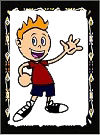
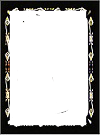
code review

Changed region(s): [[0.12, 0.0889, 0.84, 0.9185], [0.06, 0.2667, 0.12, 0.3852]]

diff --git a/src/view/MyPanel.java b/src/view/MyPanel.java
@@ -44,12 +44,12 @@ public class MyPanel extends JPanel {
                   (int)(CardView.getCardSize()*2.5) + 45, CardView.getCardSize()+panel_size/10 + 120);
 
         }
-        public void drawTotem(Graphics g) throws IOException{
+        public void drawTotem(Graphics g) throws IOException {
             //clearD(g);
             if (mesOk == 1){
-               g.clearRect(0, panel_size/30 , 800, 30);
-                Font font = new Font("Arial", Font.BOLD, 15);
-                Font oldFont = g.getFont();
+               //g.clearRect(0, panel_size/30 , 800, 30);
+				Font font = new Font("Arial", Font.BOLD, 15);
+				Font oldFont = g.getFont();
                g.setColor(Color.red);
                g.setFont(font);
                message += xMes;
@@ -59,7 +59,8 @@ public class MyPanel extends JPanel {
                g.setColor(Color.BLACK);
             } 
             else{
-                g.clearRect(0, panel_size/30 , 800, 30);
+              //  g.clearRect(0, panel_size/30 , 800, 30);
+            	message = "";
             }
             String cardsCount = String.valueOf(totem.getCardsCount());
           // g.drawChars(cardsCount.toCharArray(), 0, cardsCount.length(), xCoord-graphics.CardView.getCardSize()/2+panel_size/60, yCoord+graphics.CardView.getCardSize()/2+panel_size/30);
@@ -181,17 +182,21 @@ public class MyPanel extends JPanel {
         try {
             Image imgU = Configuration.getGallery().getImage("data/arrow_u.png");
             Image imgD = Configuration.getGallery().getImage("data/arrow_d.png");
+            
+            int playerX = myGame.getPlayer(myGame.getPlayerWhoWillGo()).getXCoordinate();
+            int playerY = myGame.getPlayer(myGame.getPlayerWhoWillGo()).getYCoordinate();
+            
             if(plWhoGo%4 == 1){
-                g.drawImage(imgU, myGame.getPlayer(myGame.getPlayerWhoWillGo()).getXCoordinate() -60, myGame.getPlayer(myGame.getPlayerWhoWillGo()).getYCoordinate()+150, 100, 250, null);
+                g.drawImage(imgU, playerX - 60, playerY + 150, 100, 250, null);
             }
             if(plWhoGo%4 == 2){
-                g.drawImage(imgU, myGame.getPlayer(myGame.getPlayerWhoWillGo()).getXCoordinate() + 150, myGame.getPlayer(myGame.getPlayerWhoWillGo()).getYCoordinate(), 100, 250, null);
+                g.drawImage(imgU, playerX + 150, playerY, 100, 250, null);
             }
             if(plWhoGo%4 == 3){
-                g.drawImage(imgD, myGame.getPlayer(myGame.getPlayerWhoWillGo()).getXCoordinate() -60 , myGame.getPlayer(myGame.getPlayerWhoWillGo()).getYCoordinate()-250, 100, 250, null);
+                g.drawImage(imgD, playerX - 60 ,  playerY - 250, 100, 250, null);
             }
             if(plWhoGo%4 == 0){
-                g.drawImage(imgD, myGame.getPlayer(myGame.getPlayerWhoWillGo()).getXCoordinate() -300, myGame.getPlayer(myGame.getPlayerWhoWillGo()).getYCoordinate()-120, 100, 250, null);
+                g.drawImage(imgD, playerX - 300,  playerY - 120, 100, 250, null);
             }
            
             g.drawImage(ImageIO.read(new File("data/tboy-go1.png")),    myGame.getPlayer(myGame.getPlayerWhoWillGo()).getXCoordinate() -110, myGame.getPlayer(myGame.getPlayerWhoWillGo()).getYCoordinate(), null);

diff --git a/src/view/PlayerView.java b/src/view/PlayerView.java
@@ -64,12 +64,13 @@ public class PlayerView{
     }
     public void drawPlayer(Graphics g, MyPanel panel) throws IOException{
         //clear(g);
-        if (playerInfo.isGO() == false)
-            g.drawImage(ImageIO.read(new File("data/tboy.png")), xCoordinate-110, yCoordinate, panel);
+        //if (playerInfo.isGO() == false)
+        
+    	g.drawImage(ImageIO.read(new File("data/tboy.png")), xCoordinate-110, yCoordinate, panel);
         Font font = new Font("Tahoma", Font.BOLD, 20);
         Font oldFont = g.getFont();
         g.setFont(font);
-        g.drawChars(playerInfo.getName().toCharArray(), 0, playerInfo.getName().length(), xCoordinate - CardView.getCardSize() / 3, yCoordinate - scale / 30);
+        g.drawString(playerInfo.getName(), xCoordinate - CardView.getCardSize() / 3, yCoordinate - scale / 30);
       
         font = new Font("Tahoma", Font.BOLD, 15);
         g.setFont(font);
@@ -78,6 +79,7 @@ public class PlayerView{
         Color newColor = new Color(0, 0, 0);
         g.setColor(newColor);
         g.drawChars(openCardsNumber.toCharArray(), 0, openCardsNumber.length(),xCoordinate+scale/60 + 70, yCoordinate+CardView.getCardSize()+scale/30);
+        
         if (playerInfo.getOpenCardsCount()!=0){
             Image image = topCardView.getCardImage();
             g.drawImage(image, xCoordinate, yCoordinate + CardView.getCardSize(), CardView.getCardSize(), CardView.getCardSize(), panel);
@@ -85,7 +87,8 @@ public class PlayerView{
         }
         else
             if (playerInfo.getCloseCardsCount() != 0 )
-            g.drawImage(ImageIO.read(new File("data/tback.jpg")), xCoordinate, yCoordinate, CardView.getCardSize(), CardView.getCardSize(), panel);
+            	g.drawImage(ImageIO.read(new File("data/tback.jpg")), xCoordinate, yCoordinate, CardView.getCardSize(), CardView.getCardSize(), panel);
+      
         String closeCardsNumber = String.valueOf(playerInfo.getCloseCardsCount());
         g.drawChars(closeCardsNumber.toCharArray(), 0, closeCardsNumber.length(),  xCoordinate + scale/60 + 70, yCoordinate+CardView.getCardSize()+scale/30 - CardView.getCardSize());
         g.setColor(oldColor);
